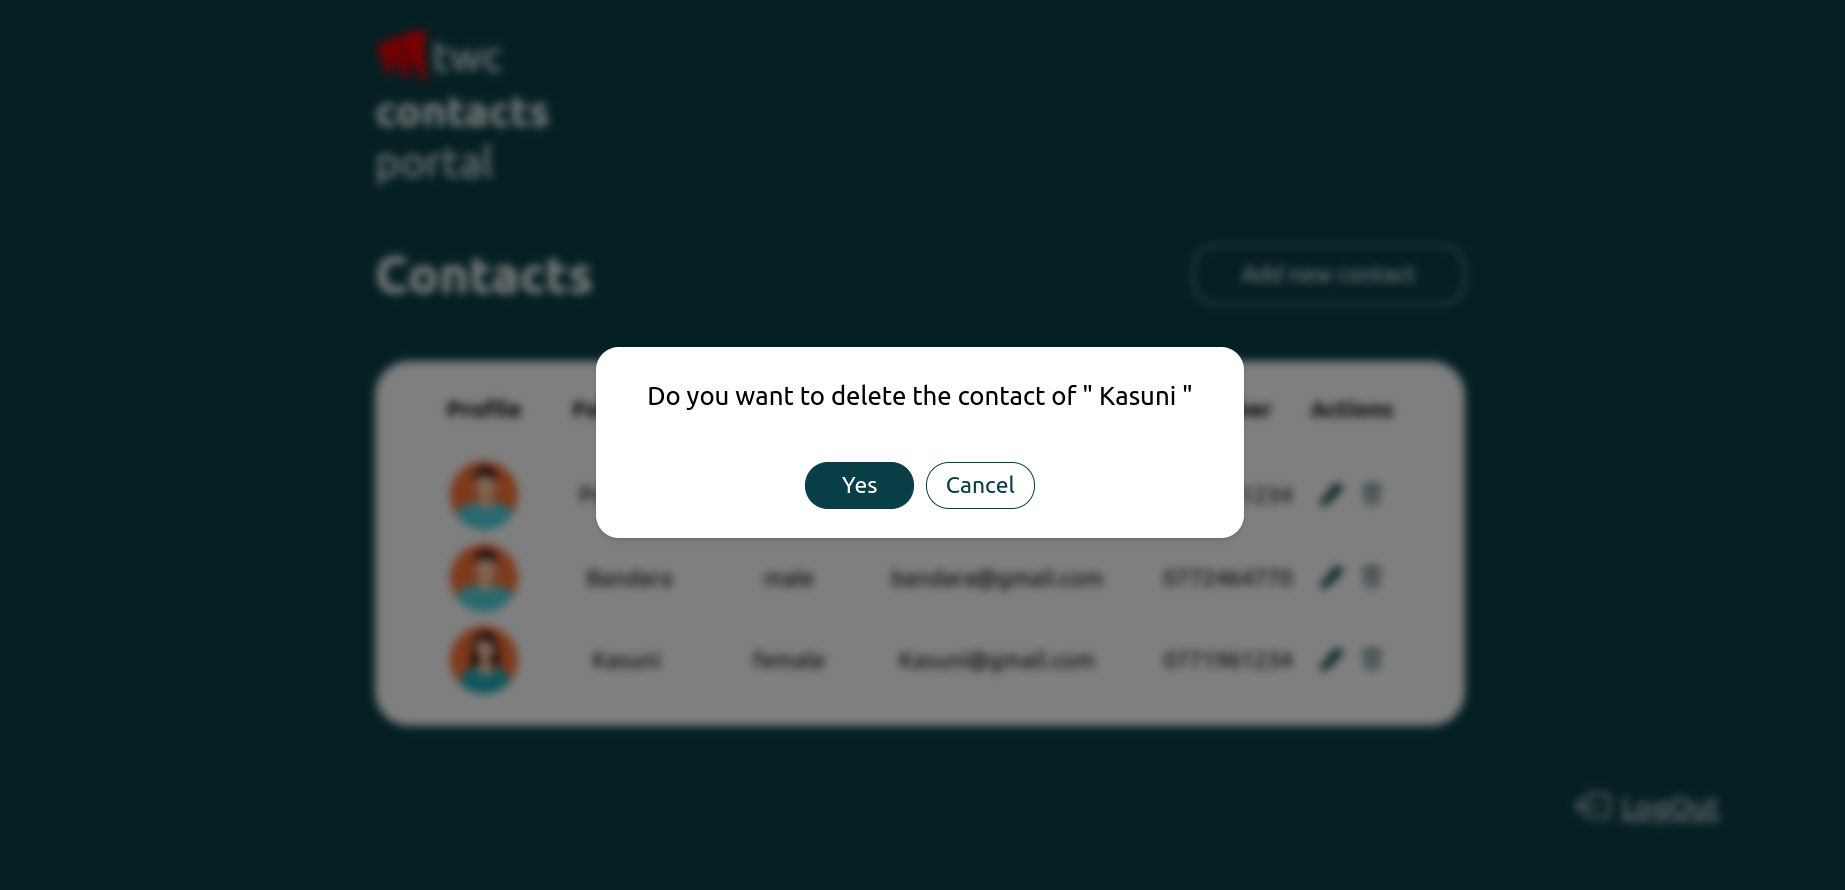
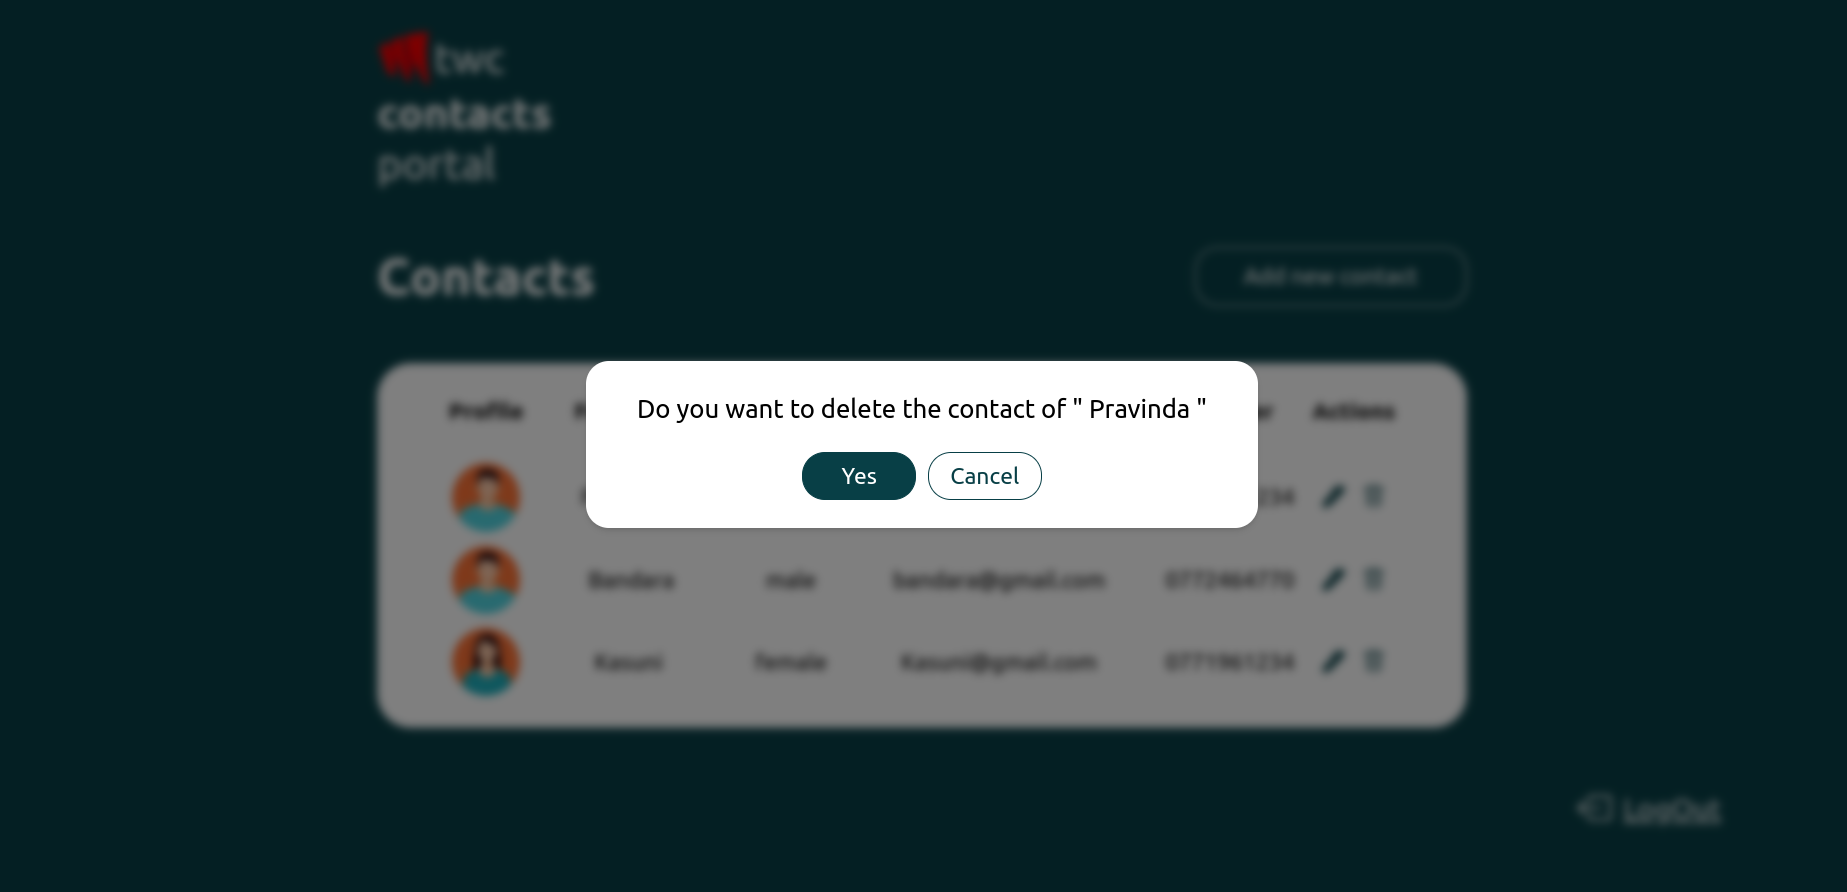
delete button ui fix

Changed region(s): [[0.3089, 0.364, 0.6797, 0.6067]]

diff --git a/src/app/component/delete-pop-up.component.ts b/src/app/component/delete-pop-up.component.ts
@@ -7,8 +7,8 @@ import { Component, Input, Output, EventEmitter } from '@angular/core';
           <div class="bg-white px-9 pb-2 pt-5 rounded-2xl shadow-md">
               <p class="text-lg mb-4">{{ message }}</p>
               <div class="flex justify-center">
-                  <button class="custom-button p-1 mb-3 mt-4 mr-2 border-customBlue" (click)="handleConfirm()">Yes</button>
-                  <button class="custom-button-white p-1 mb-3 mt-4" (click)="handleCancel()">Cancel</button>
+                  <button class="custom-button p-1 mb-3 mt-0 mr-2 border-customBlue" (click)="handleConfirm()">Yes</button>
+                  <button class="custom-button-white p-1 mb-3 mt-0" (click)="handleCancel()">Cancel</button>
               </div>
           </div>
       </div>
